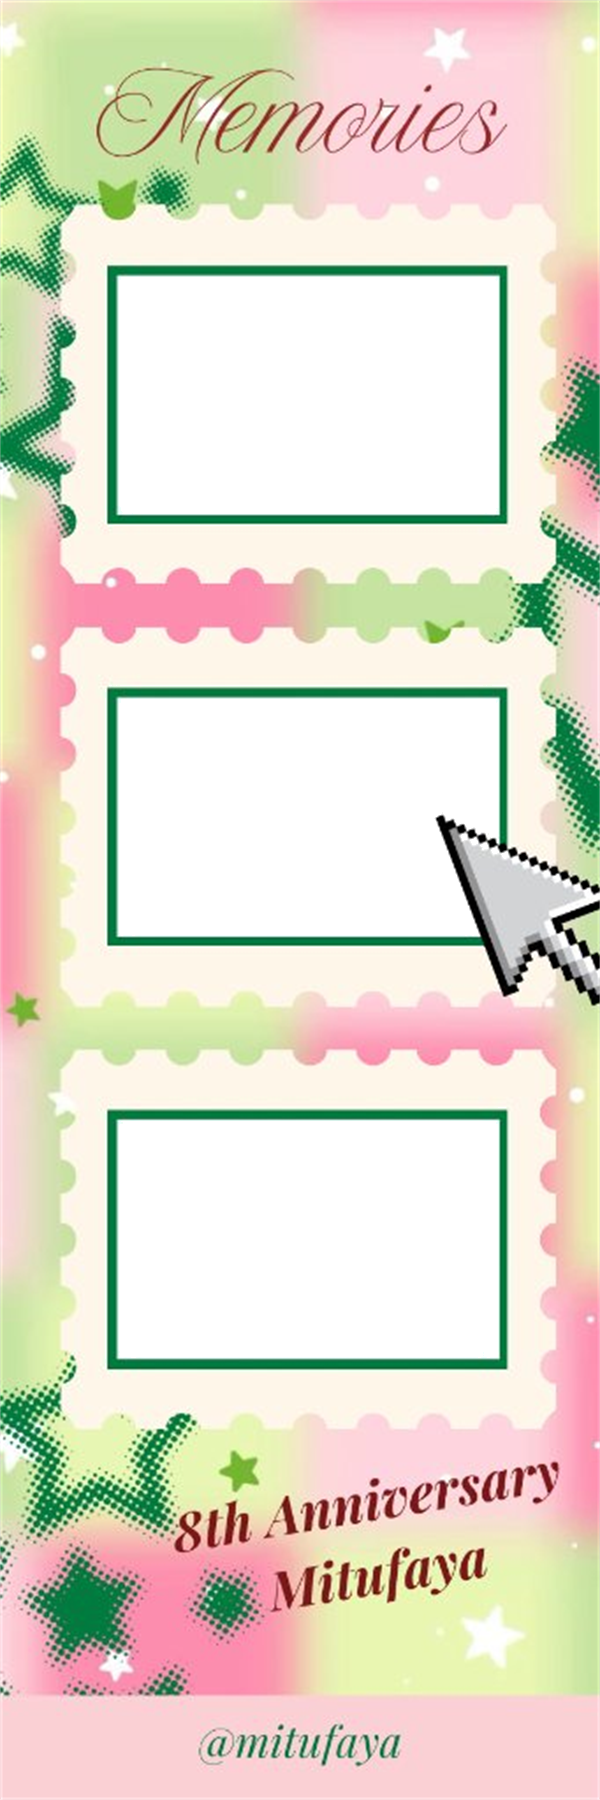
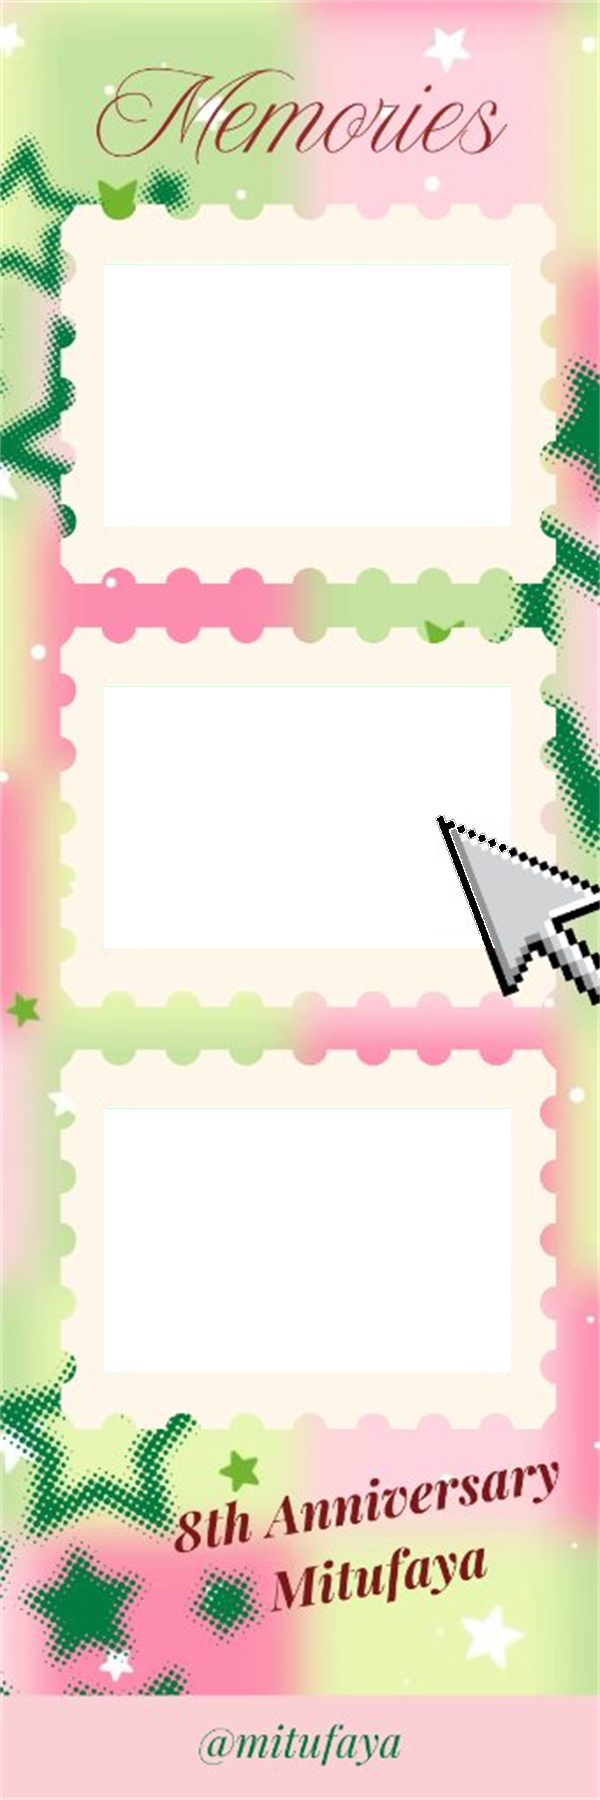
fix(frames): remove green placeholder border from Pastel Memories stamp slots and harmonize card theme

Changed region(s): [[0.15, 0.5911, 0.87, 0.7778], [0.15, 0.1244, 0.87, 0.3111], [0.15, 0.3733, 0.87, 0.5289]]

diff --git a/src/components/photobooth/StepCamera.jsx b/src/components/photobooth/StepCamera.jsx
@@ -1065,8 +1065,11 @@ export default function StepCamera() {
             onTouchEnd={handleTouchEnd}
             onMouseDown={handleMouseDown}
             onMouseUp={handleMouseUp}
-            style={{ borderColor: isGraphicFrameMode ? 'rgba(255, 255, 255, 0.45)' : accentColor }}
-            className="relative w-full aspect-[4/3] rounded-xl sm:rounded-2xl overflow-hidden bg-black shadow-inner flex items-center justify-center border-2 my-1 touch-pan-y select-none cursor-grab active:cursor-grabbing group z-10"
+            style={{
+              borderColor: isGraphicFrameMode ? 'transparent' : accentColor,
+              border: isGraphicFrameMode ? 'none' : undefined
+            }}
+            className={`relative w-full aspect-[4/3] rounded-xl sm:rounded-2xl overflow-hidden bg-black shadow-inner flex items-center justify-center ${isGraphicFrameMode ? 'border-0' : 'border-2'} my-1 touch-pan-y select-none cursor-grab active:cursor-grabbing group z-10`}
           >
             {/* Camera Video Stream */}
             <video

diff --git a/src/data/eventFrames.js b/src/data/eventFrames.js
@@ -31,12 +31,12 @@ export const MITUFAYA_FRAMES = [
     previewUrl: '/frames/mitufaya_frame_2_preview.jpg',
     overlayUrl: '/frames/mitufaya_frame_2_overlay.png',
     slotBoxes: [
-      { x: 100, y: 270, w: 400, h: 245 },  // Pose 1 (Stamp)
-      { x: 100, y: 692, w: 400, h: 245 },  // Pose 2 (Stamp)
-      { x: 100, y: 1115, w: 400, h: 245 }  // Pose 3 (Stamp)
+      { x: 104, y: 265, w: 406, h: 260 },  // Pose 1 (Stamp)
+      { x: 104, y: 687, w: 406, h: 260 },  // Pose 2 (Stamp)
+      { x: 104, y: 1109, w: 406, h: 261 }  // Pose 3 (Stamp)
     ],
     accentColor: '#4E8A57',
-    themeHex: '#88C290',
+    themeHex: '#EAA4B5',
     styleName: 'PASTEL MEMORIES STAMP',
   },
   {
